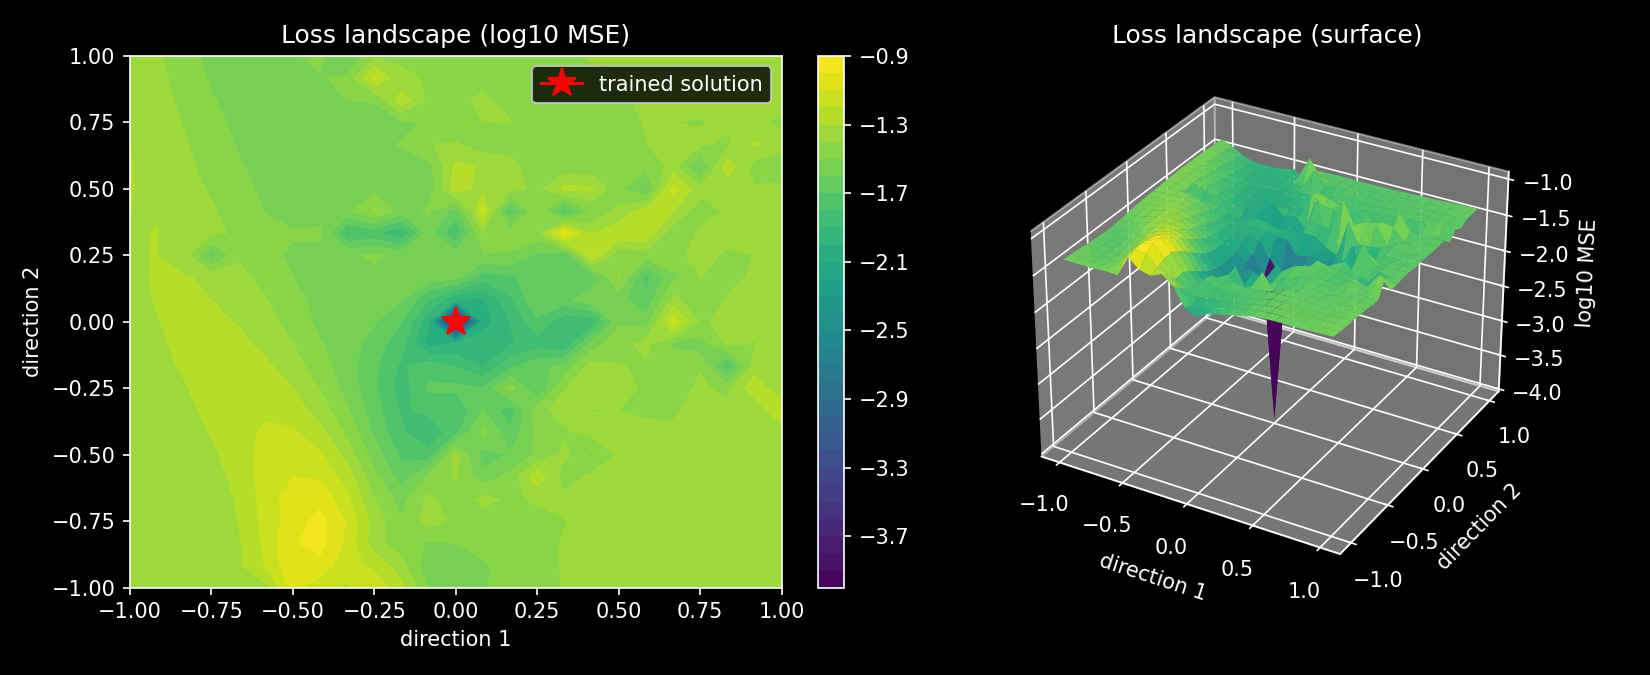
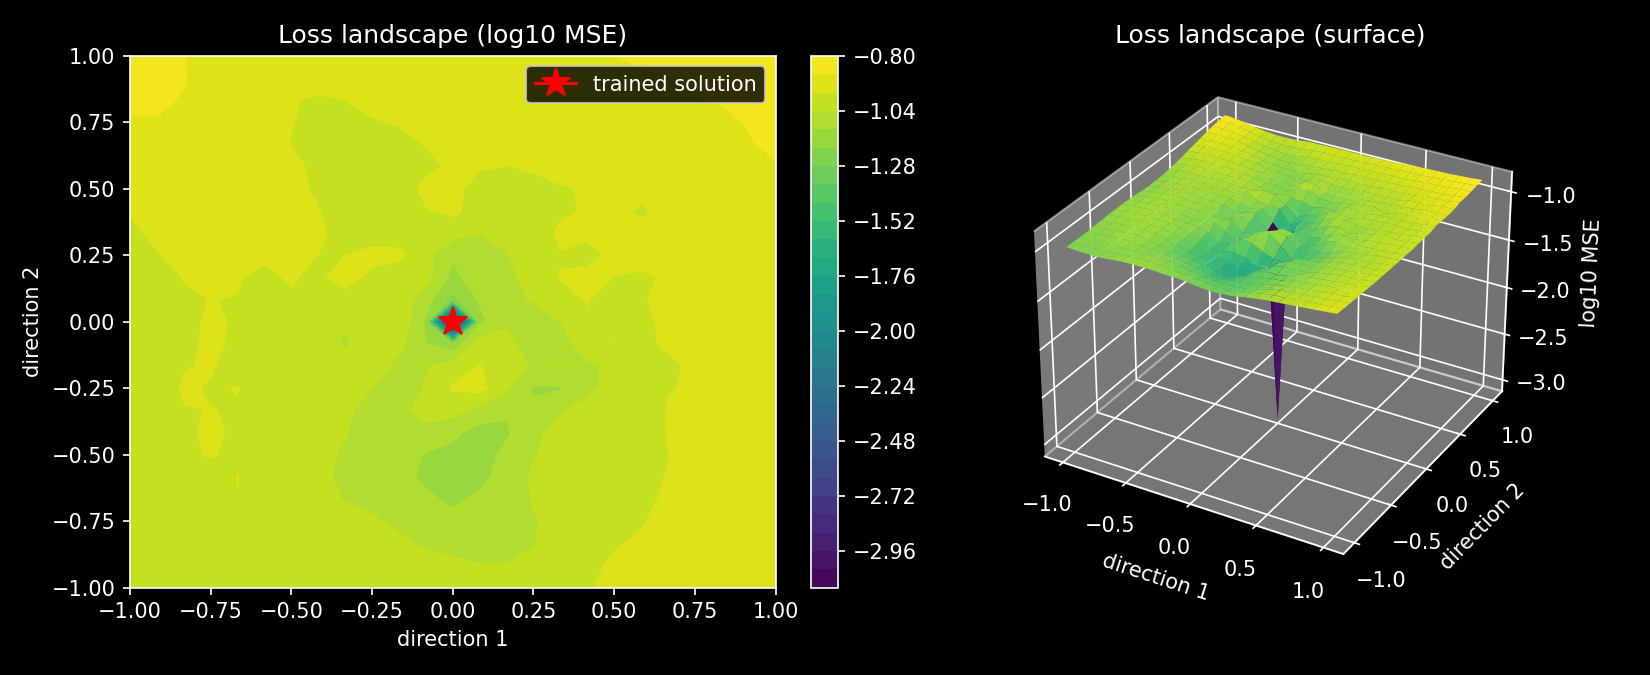
New omega optimisations

diff --git a/implicit_neral_reps/train_inr.py b/implicit_neral_reps/train_inr.py
@@ -36,7 +36,7 @@ USE_FOURIER_FEATURES = False  # <-- flip this to False to feed raw (x, y) coords
 NUM_FOURIER_FREQS = 1  # only used when USE_FOURIER_FEATURES = True
 INR_WIDTH = 12
 INR_DEPTH = 6
-NUM_STEPS = 1000
+NUM_STEPS = 5000
 LR = 1e-3
 SEED = 0
 DTYPE = (
@@ -44,9 +44,9 @@ DTYPE = (
 )  # float32 throughout; bf16 causes needless precision headaches for a demo
 
 # INPUT_IMAGE_PATH = "pusht.webp"
-# INPUT_IMAGE_PATH = "ogbench.png"
+INPUT_IMAGE_PATH = "ogbench.png"
 # INPUT_IMAGE_PATH = "tworoom.png"
-INPUT_IMAGE_PATH = "reacher.png"
+# INPUT_IMAGE_PATH = "reacher.png"
 OUT_DIR = "./"
 os.makedirs(OUT_DIR, exist_ok=True)
 
@@ -129,7 +129,13 @@ class INR(eqx.Module):
     def get_omega(self, i):
         # sigmoid squashes the trainable scalar into (0, 1), then rescale into [omega_min, omega_max]
         # frac = jax.nn.sigmoid(self.raw_omega[i])
-        frac = self.raw_omega[i]
+
+        # frac = jnp.clip(self.raw_omega[i], 0.0, 1.0)
+
+        frac = jnp.sin(self.raw_omega[i]) ** 2
+
+        # frac = self.raw_omega[i]
+
         return self.omega_min + frac * (self.omega_max - self.omega_min)
 
     def __call__(self, x):
